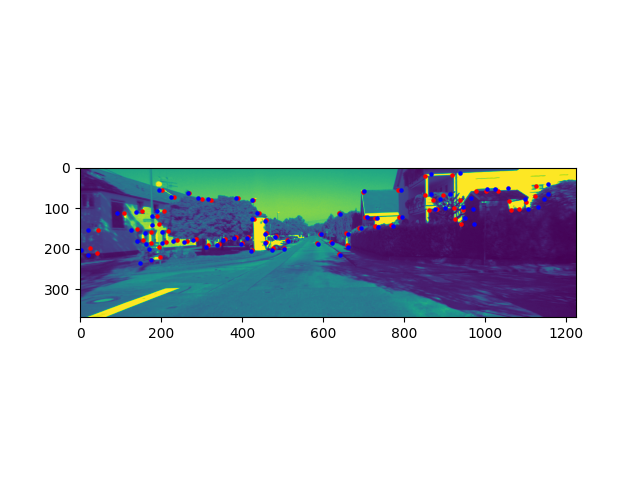
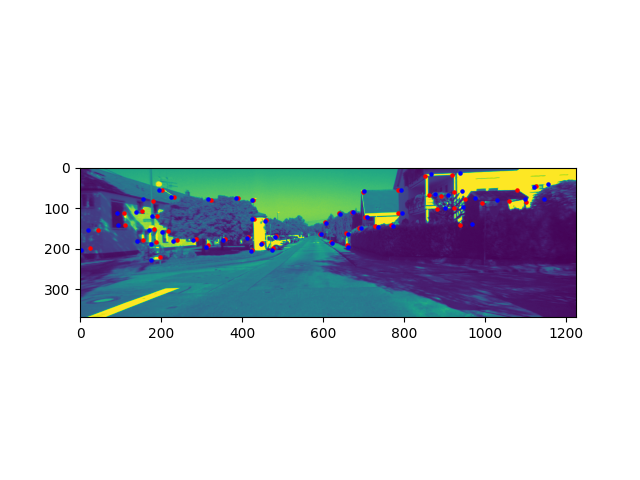
tweaked parameters, now decent performance

diff --git a/src/run.py b/src/run.py
@@ -4,15 +4,10 @@ from initialization import *
 from utils import track_candidates
 from visualizer_class import MapVisualizer
 
-<<<<<<< HEAD
 DATASET = 'kitti'
 DEBUG = False
-=======
-DATASET = 'parking'
-DEBUG = True
-GT_INIT = True
+GT_INIT = False
 
->>>>>>> 12b7a3eb2b690c697bedced23da57a04378a0c47
 """
 Conventions:
 - C: Candidate features
@@ -34,7 +29,7 @@ def main():
     
     # Configure modules
     
-    ft_params = dict(maxCorners=100, qualityLevel=0.001, minDistance=20, blockSize=3, k=0.04, useHarrisDetector=True)
+    ft_params = dict(maxCorners=100, qualityLevel=0.005, minDistance=30, blockSize=3, k=0.04, useHarrisDetector=True)
     klt_params = dict(winSize=(21, 21), maxLevel=4, criteria=(cv2.TERM_CRITERIA_COUNT + cv2.TERM_CRITERIA_EPS, 30, 0.001))
     angle_thr = np.deg2rad(2)
 
@@ -46,71 +41,7 @@ def main():
         _debug=DEBUG,
         _gt_init = GT_INIT
     )
-<<<<<<< HEAD
     
-    C_0 = P_0_inliers
-    # Perfect initializer
-    if DEBUG:
-        # Use ground truth poses to initialize
-        I_0 = frame_manager.get_frame(0)
-        I_2 = frame_manager.get_frame(2)
-        pose_0 = frame_manager.get_ground_truth_pose(0)
-        pose_2 = frame_manager.get_ground_truth_pose(2)
-        
-        # Convert poses to appropriate format
-        pose_0[:3, 3] = -pose_0[:3, :3].T @ pose_0[:3, 3]
-        pose_2[:3, 3] = -pose_2[:3, :3].T @ pose_2[:3, 3]
-        
-        # Extract features from the first image
-        C_0 = cv2.goodFeaturesToTrack(I_0, mask=None, **ft_params)
-        C_0 = np.squeeze(C_0)
-        
-        # Track features to the third image
-        C_2, st, err = cv2.calcOpticalFlowPyrLK(I_0, I_2, C_0, None, **klt_params)
-        st = st.flatten()
-        
-        # Select good points
-        C_0_good = C_0[st == 1]
-        C_2_good = C_2[st == 1]
-        
-        # Triangulate 3D points using ground truth poses
-        points_4D = cv2.triangulatePoints(
-            projMatr1=K @ pose_0[:3],
-            projMatr2=K @ pose_2[:3],
-            projPoints1=C_0_good.T,
-            projPoints2=C_2_good.T
-        )
-        points_3D = cv2.convertPointsFromHomogeneous(points_4D.T).reshape(-1, 3)
-        
-        # Initialize rotation and translation
-        cam_R = pose_2[:3, :3]
-        cam_t = pose_2[:3, 3].reshape(-1, 1)
-        
-        # Set keypoints and point cloud
-        P_2_inliers = C_2_good
-        X_2 = points_3D
-        
-        # Update current state
-        current_state = {
-            "keypoints_2D": P_2_inliers,
-            "keypoints_3D": X_2,
-            "candidate_2D": None,
-            "candidate_first_2D" : None,
-            "candidate_first_camera_pose" : None,
-        }
-    
-    if not DEBUG:
-        current_state = {
-            "keypoints_2D" : P_2_inliers,
-            "keypoints_3D" : X_2,
-            "candidate_2D" : None,
-            "candidate_first_2D" : None,
-            "candidate_first_camera_pose" : None,
-        }
-
-    pose_arr = []
-    pose_arr.append(np.eye(4)) # Starting position
-=======
 
     # Initialize current state dictionary
     current_state = {
@@ -120,16 +51,17 @@ def main():
         "candidate_first_2D" : None,
         "candidate_first_camera_pose" : None,
     }
->>>>>>> 12b7a3eb2b690c697bedced23da57a04378a0c47
 
-    # Get starting position
-    pose_arr = [np.eye(4)]
+    pose_arr = []
+    pose_arr.append(np.eye(4)) # Starting position
+
     pose_arr.append(np.vstack((np.hstack((cam_R, cam_t)),
                                 np.array([0,0,0,1]))))
     
     # Initialize visualizer
     visualizer = MapVisualizer()
     visualizer.add_points(X_2)
+    visualizer.add_pose(np.zeros(3))
     visualizer.add_pose(-cam_R.T@cam_t)
     visualizer.add_image_points(P_0_inliers, P_2_inliers, P_0_outliers, P_0_inliers)
     visualizer.update_image(I_2)
@@ -276,11 +208,7 @@ def main():
         visualizer.update_image(I_curr)
         visualizer.update_plot(iFrame)
         iFrame += 1
-<<<<<<< HEAD
-        if iFrame >= 150:
-=======
-        if iFrame >= 60:
->>>>>>> 12b7a3eb2b690c697bedced23da57a04378a0c47
+        if iFrame >= 300:
             break
 
     visualizer.close_video()

diff --git a/src/initialization.py b/src/initialization.py
@@ -67,7 +67,6 @@ def initialize_vo(frame_manager, ft_params, klt_params, _debug: bool = False, _g
     # Estimate the essential matrix
     K = frame_manager.get_intrinsic_params()
     E, mask = cv2.findEssentialMat(points1=P_0_inliers, points2=P_2_inliers, cameraMatrix=K, method=cv2.RANSAC, prob=0.999, threshold=1.0)
-    E = -E
     
     # Select inlier points
     P_0_inliers = P_0_inliers[mask.ravel() == 1]
